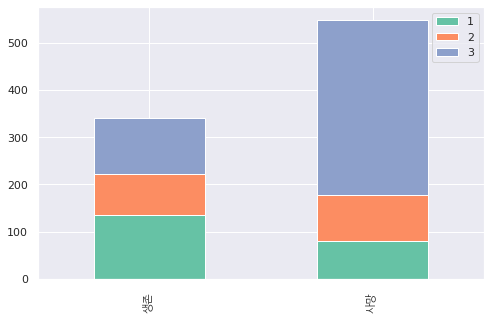
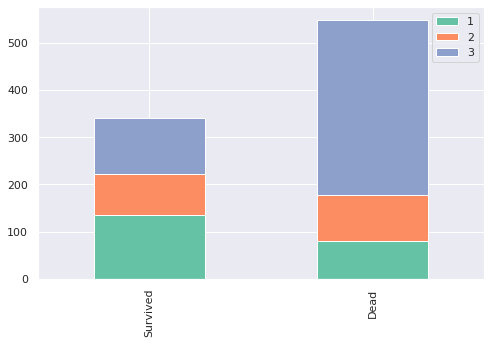
edit : post

diff --git a/_posts/2020-08-29-Titanic(1).md b/_posts/2020-08-29-Titanic(1).md
@@ -1,5 +1,5 @@
 ---
-title: "[Kaggle] 타이타닉 데이터 분석(1)"
+title: "타이타닉 데이터 분석(1)"
 search: true
 categories:
  - Kaggle
@@ -11,7 +11,7 @@ tags:
 last_modified_at: 2020-08-29 15:57
 layout: jupyter
 classes: wide
-excerpt: Kaggle 타이타닉 데이터셋을 분석해봅니다.
+excerpt: [Kaggle] 타이타닉 데이터셋 분석하기
 toc: true
 toc_sticky: true
 toc_label: "목차"
@@ -89,6 +89,27 @@ test = pd.read_csv('kaggle/titanic/test.csv')
 > - Fare : 승객 요금
 > - Cabin : 방 호수
 > - Embarked : 탑승지, C = 셰르부르, Q = 퀸즈타운, S = 사우샘프턴
+
+<div class="prompt input_prompt">
+</div>
+
+<div class="input_area" markdown="1">
+
+```python
+import matplotlib.font_manager as fm
+plt.style.use('ggplot')
+sns.set()
+sns.set_palette("Set2")
+
+%matplotlib inline
+path = '/usr/share/fonts/NanumFont/NanumGothic.ttf'
+font_name = fm.FontProperties(fname=path, size=50).get_name()
+plt.rc('font', family=font_name)
+plt.rcParams['figure.figsize'] = 8,5
+plt.rcParams["font.family"] = "NanumGothic"
+```
+
+</div>
 
 <div class="prompt input_prompt">
 </div>
@@ -438,9 +459,9 @@ plt.style.use('ggplot')
 sns.set()
 sns.set_palette("Set2")
 
-def chart(feature):
-    survived = train[train['Survived'] == 1][feature].value_counts()
-    dead = train[train['Survived'] == 0][feature].value_counts()
+def chart(dataset, feature):
+    survived = dataset[dataset['Survived'] == 1][feature].value_counts()
+    dead = dataset[dataset['Survived'] == 0][feature].value_counts()
     df = pd.DataFrame([survived, dead])
     df.index = ['Survived', 'Dead']
     df.plot(kind='bar', stacked=True)
@@ -456,7 +477,7 @@ def chart(feature):
 <div class="input_area" markdown="1">
 
 ```python
-chart('Pclass')
+chart(train, 'Pclass')
 ```
 
 </div>
@@ -473,7 +494,7 @@ chart('Pclass')
 <div class="input_area" markdown="1">
 
 ```python
-chart('Sex')
+chart(train, 'Sex')
 ```
 
 </div>
@@ -490,7 +511,7 @@ chart('Sex')
 <div class="input_area" markdown="1">
 
 ```python
-chart('SibSp')
+chart(train, 'SibSp')
 ```
 
 </div>
@@ -499,7 +520,7 @@ chart('SibSp')
 ![png](/images/Titanic_1_files/Titanic_1_17_0.png)
 
 
-이 그래프는 자매와 배우자의 수에 따라 도시한 그래프입니다. `SibSp` 값이 0인 사람보다는, 비율상 1이나 2인 사람들이 더욱 많이 생존했다는 것을 확인할 수 있습니다. 하지만 3 이상부터는 잘 보이지 않아서 추가적인 확인이 필요할 것 같습니다.
+이 그래프는 자매와 배우자의 수에 따라 도시한 그래프입니다. `SibSp` 값이 0인 사람보다는, 비율상 1이나 2인 사람들이 더욱 많이 생존했다는 것을 확인할 수 있습니다. 하지만 3 이상부터는 잘 보이지 않아서 추가적인 확인이 필요할 것 같습니다. <br>한번 확인해보겠습니다.
 
 <div class="prompt input_prompt">
 </div>
@@ -507,7 +528,8 @@ chart('SibSp')
 <div class="input_area" markdown="1">
 
 ```python
-chart('Embarked')
+temp = train[(train['SibSp'] > 2)]
+chart(temp, 'SibSp')
 ```
 
 </div>
@@ -516,8 +538,69 @@ chart('Embarked')
 ![png](/images/Titanic_1_files/Titanic_1_19_0.png)
 
 
-이번에는 승객별 탑승지에 따른 생존율입니다. 그래프를 보기 전까지는 탑승지랑 생존율이랑 무슨 관련이 있을까 싶었는데, 그래프를 그리고 나니 생각보다 차이가 많이 납니다. 지역별로 부유한 도시와 가난한 도시가 있을수도 있을 것 같습니다. <br>
+확인해보니 `SibSp` 값이 3 이상인 사람들은 생존율이 높지 않다는 것을 확인할 수 있습니다.
+
+<div class="prompt input_prompt">
+</div>
+
+<div class="input_area" markdown="1">
+
+```python
+chart(train, 'Embarked')
+```
+
+</div>
+
+
+![png](/images/Titanic_1_files/Titanic_1_21_0.png)
+
+
+이번에는 승객별 탑승지에 따른 생존율입니다. 그저 탑승지의 차이라기에는 생각보다 차이가 많이 납니다. 지역별로 부유한 도시와 가난한 도시가 있을수도 있을 것 같습니다. 탑승지별로 1등석, 2등석, 3등석의 수를 한번 확인해보겠습니다.<br>
+
+<div class="prompt input_prompt">
+</div>
+
+<div class="input_area" markdown="1">
+
+```python
+S = train[train['Embarked'] == 'S']['Pclass'].value_counts()
+C = train[train['Embarked'] == 'C']['Pclass'].value_counts()
+Q = train[train['Embarked'] == 'Q']['Pclass'].value_counts()
+df = pd.DataFrame([S, C, Q])
+df.index = ['S', 'C', 'Q']
+df.plot(kind='bar', stacked=True)
+```
+
+</div>
+
+
+
+
+{:.output_data_text}
+
+```
+<matplotlib.axes._subplots.AxesSubplot at 0x7f23d6b214d0>
+```
+
+
+
+
+![png](/images/Titanic_1_files/Titanic_1_23_1.png)
+
+
+확인해보니 1등석의 비율이 탑승지별로 다른 것을 확인할 수 있습니다. `Embarked`가 `C`인 사람들은 1등석 비율이 거의 절반에 육박합니다. 이는 전 그래프에서 탑승지가 `C`였던 사람들의 생존률이 거의 50퍼센트에 가깝게 나왔다는 것에 큰 영향이 있을 것 같습니다.
 
 ---
 
 이렇게 타이타닉 문제에 대한 데이터 분석을 해보았습니다. 다음 글에서는 ***Feature Engineering***을 해보겠습니다. 감사합니다!
+
+<div class="prompt input_prompt">
+</div>
+
+<div class="input_area" markdown="1">
+
+```python
+
+```
+
+</div>

diff --git a/_posts/2020-08-31-ML_splitting_dataset.md b/_posts/2020-08-31-ML_splitting_dataset.md
@@ -1,5 +1,5 @@
 ---
-title: "[ML] 데이터셋 분할하기(훈련 세트, 테스트 세트)(1)"
+title: "훈련 데이터셋 분할하기(1)"
 search: true
 categories:
  - 머신러닝
@@ -9,7 +9,7 @@ tags:
 last_modified_at: 2020-08-31 23:17
 layout: jupyter
 classes: wide
-excerpt: 데이터를 훈련 세트와 테스트 세트로 분할하기
+excerpt: [ML] 데이터를 훈련 세트와 테스트 세트로 분할하기
 toc: true
 toc_sticky: true
 toc_label: "목차"
